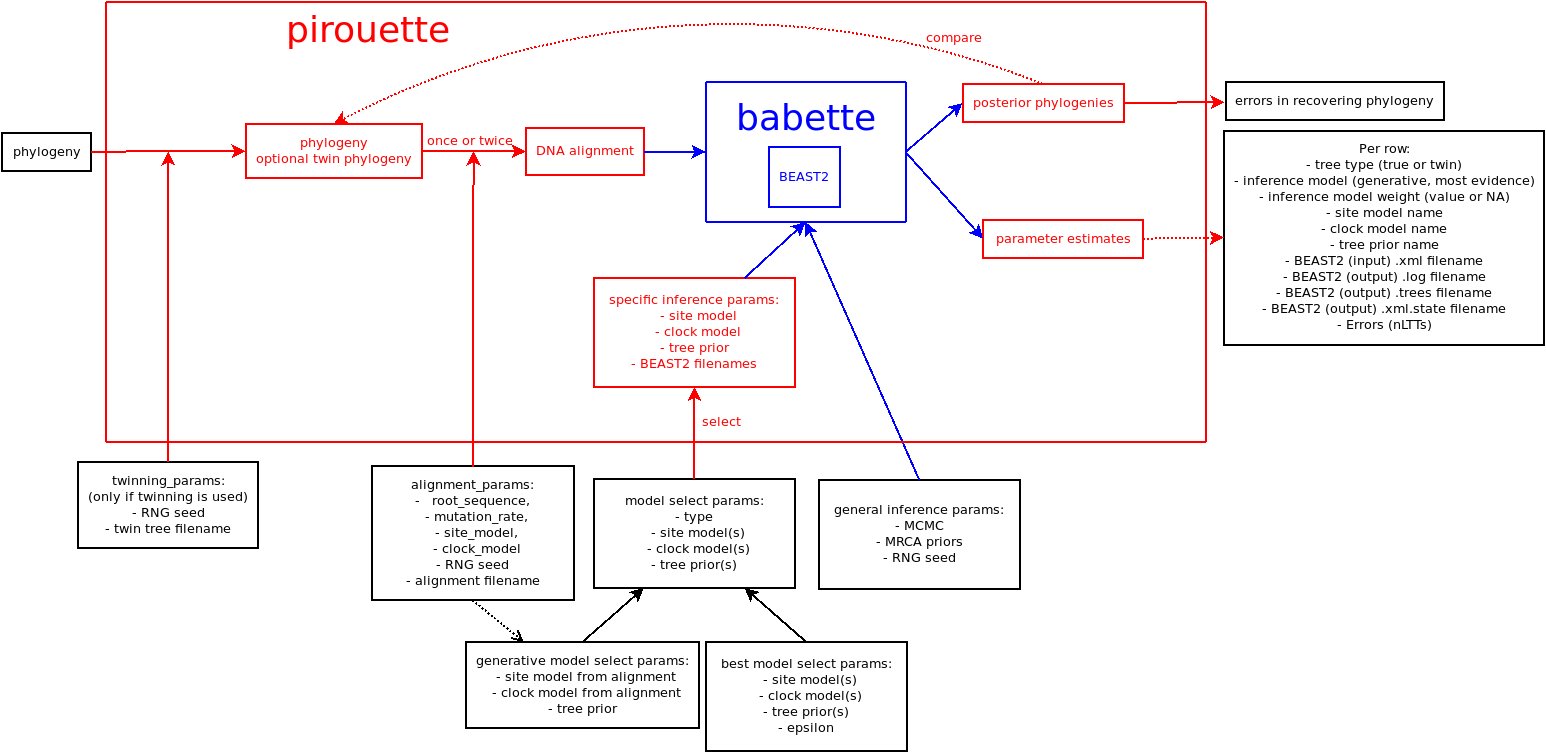
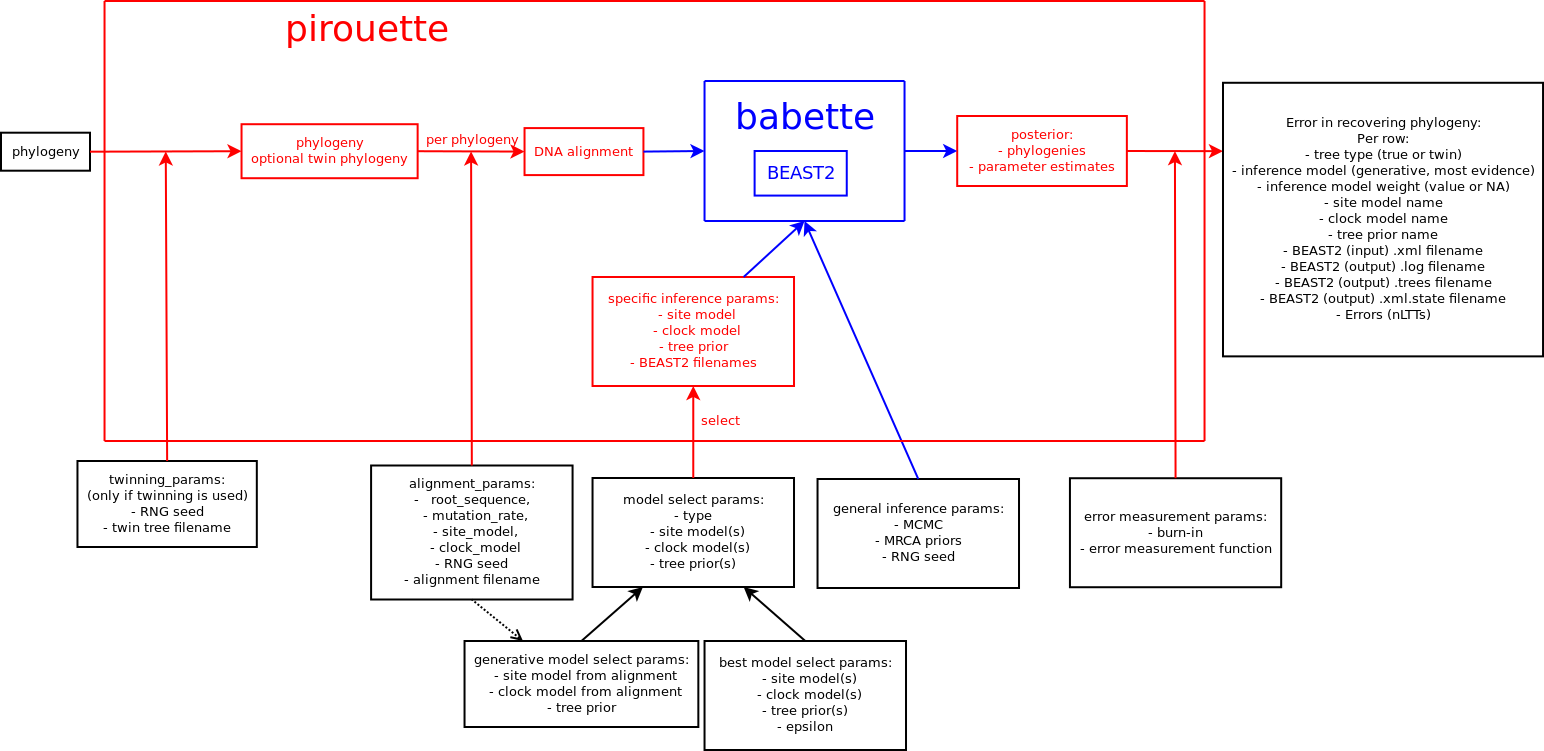
Progress

diff --git a/article.tex b/article.tex
@@ -143,6 +143,45 @@ Phylogenies are commonly used to explore evolutionary hypotheses.
   \label{fig:pipeline}
 \end{sidewaysfigure}
 
+The goal of \verb;pirouette; is to measure the inference error BEAST2
+makes from a given/known/true phylogeny. This involves multiple steps,
+described in detail below. 
+In brief: from a given phylogeny, an alignment is simulated, from which a BEAST2
+posterior is inferred, of which its phylogenies are compared with the given
+phylogeny. The more the posterior phylogenies match the given phylogeny,
+the lower the error. The is also the option to generate a 'twin tree',
+that goes through the same pipeline.
+
+The first step simulates a DNA alignment from the given phylogeny.
+One can specify a DNA sequence
+of any length at the root of the phylogeny, a DNA mutation rate, a
+site (also: nucleotide substitution) model, 
+a clock model, a random number generator (RNG) seed and a location
+where the alignment is saved to. This step is relatively fast, but longer
+DNA alignments will noticably slow down the inference step.
+
+The second step selects an inference model, using the alignment.
+The user can specify to use the generative model or select a best model
+from a set of inference models. When selecting the generative model,
+the site and clock model used in the alignment simulation are used
+in inference. Because the given phylogeny (on which the alignment is based)
+may have followed any tree prior (also: speciation model), the user needs
+to specify which tree prior is used in inference. When selecting a best
+model, the alignment is used to find the inference model that has the
+highest evidence (also: marginal likelihood)
+
+
+
+The third step infers a Bayesian posterior from the simulated alignment.
+From the
+DNA alignment a Bayesian posterior is generated, using a user-specified
+inference setup. The given tree is compared with all posterior trees, using
+a user-specified error measurement setup.
+
+
+A first and optional step is to generate a 'twin tree', that will be
+analyzed in the same way as the true tree.
+
 and enables the full BEAST2 workflow from a single R function call,
 %in a similar way to what subsequent usage of BEAUti, DensiTree and Tracer would produce.
 %\verb;pirouette;'s main function is \verb;bbt_run;, which
